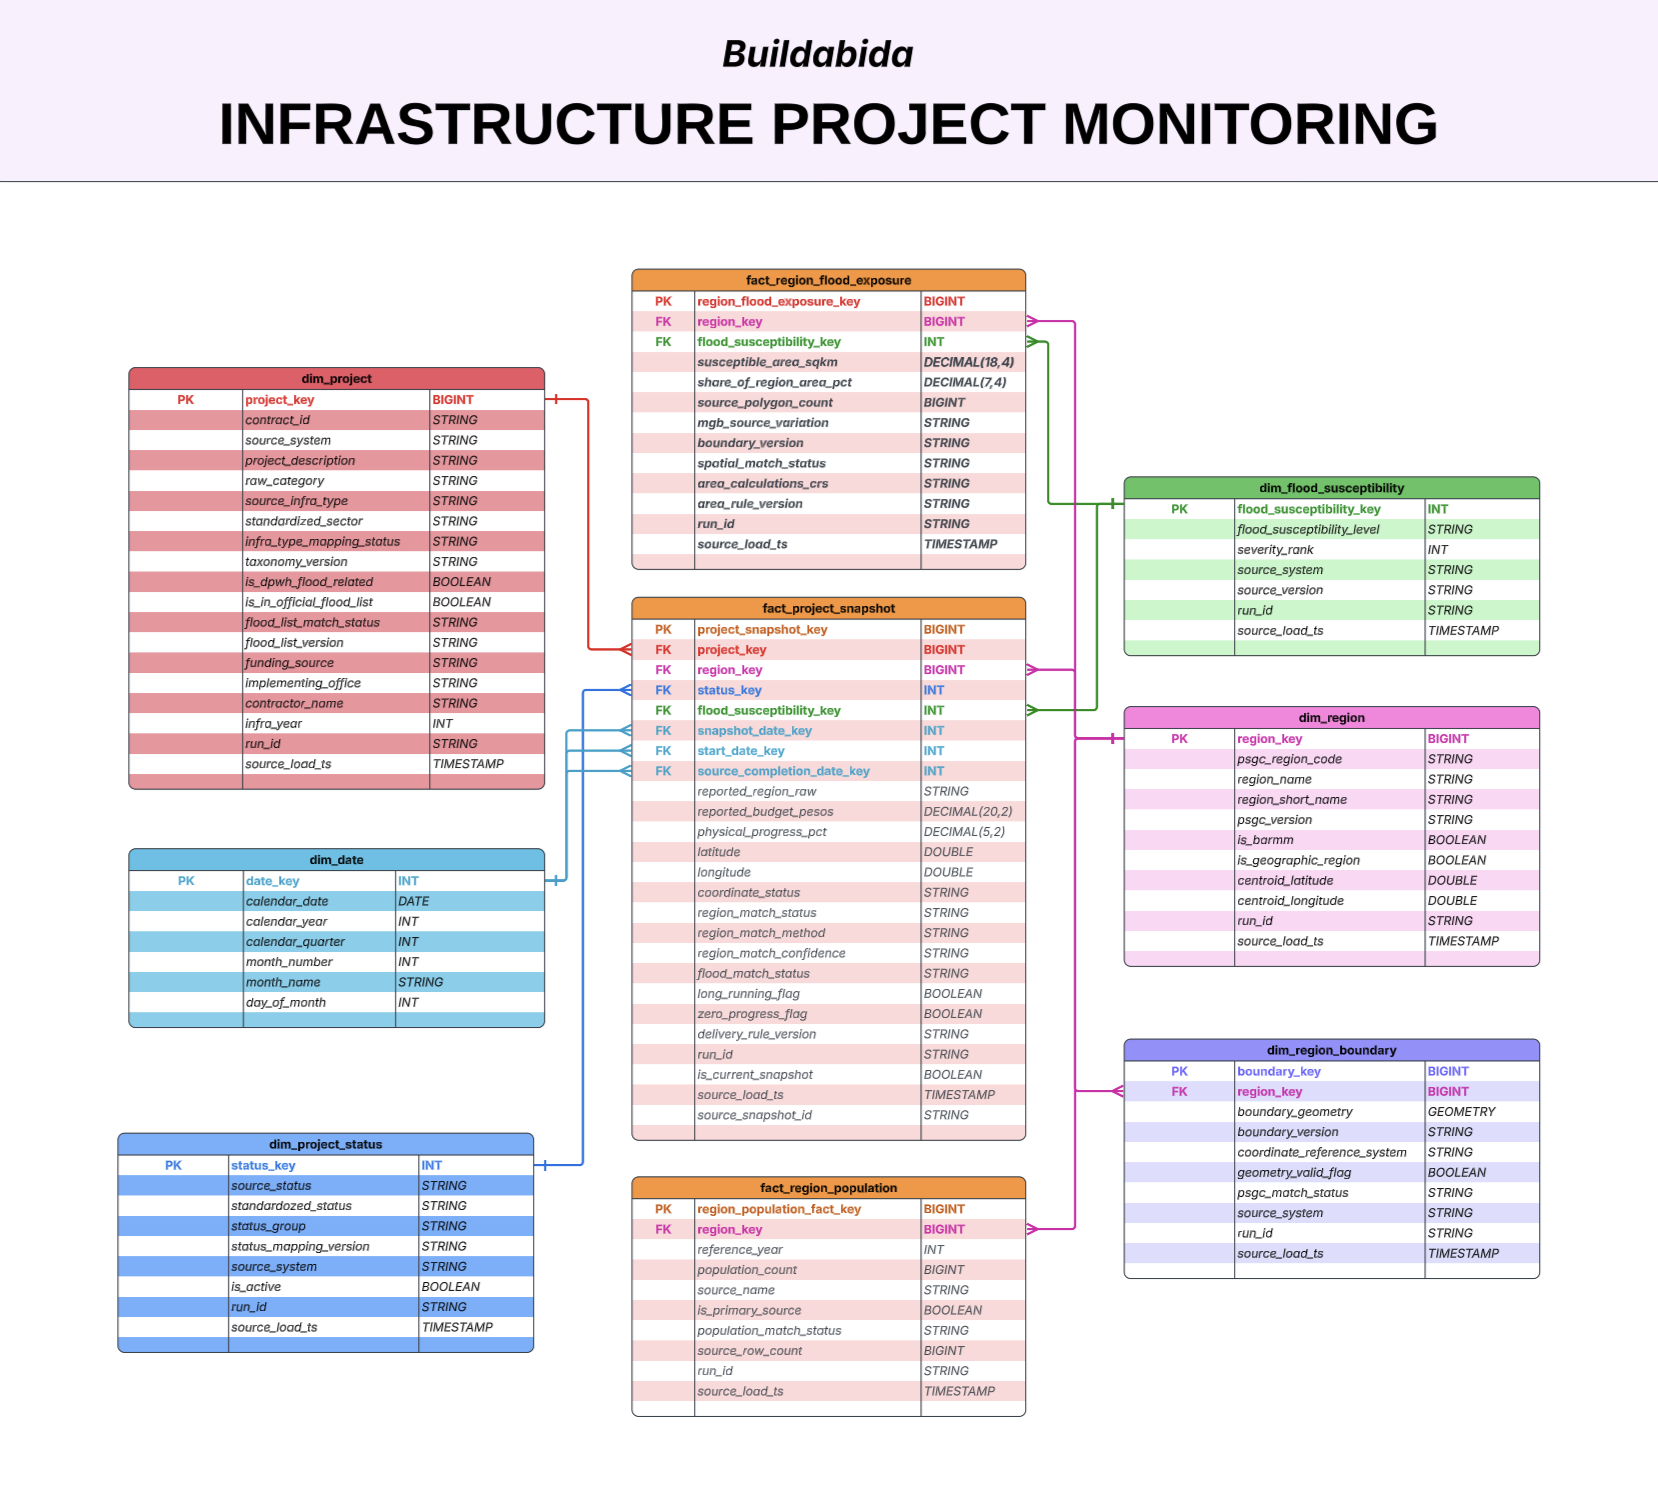
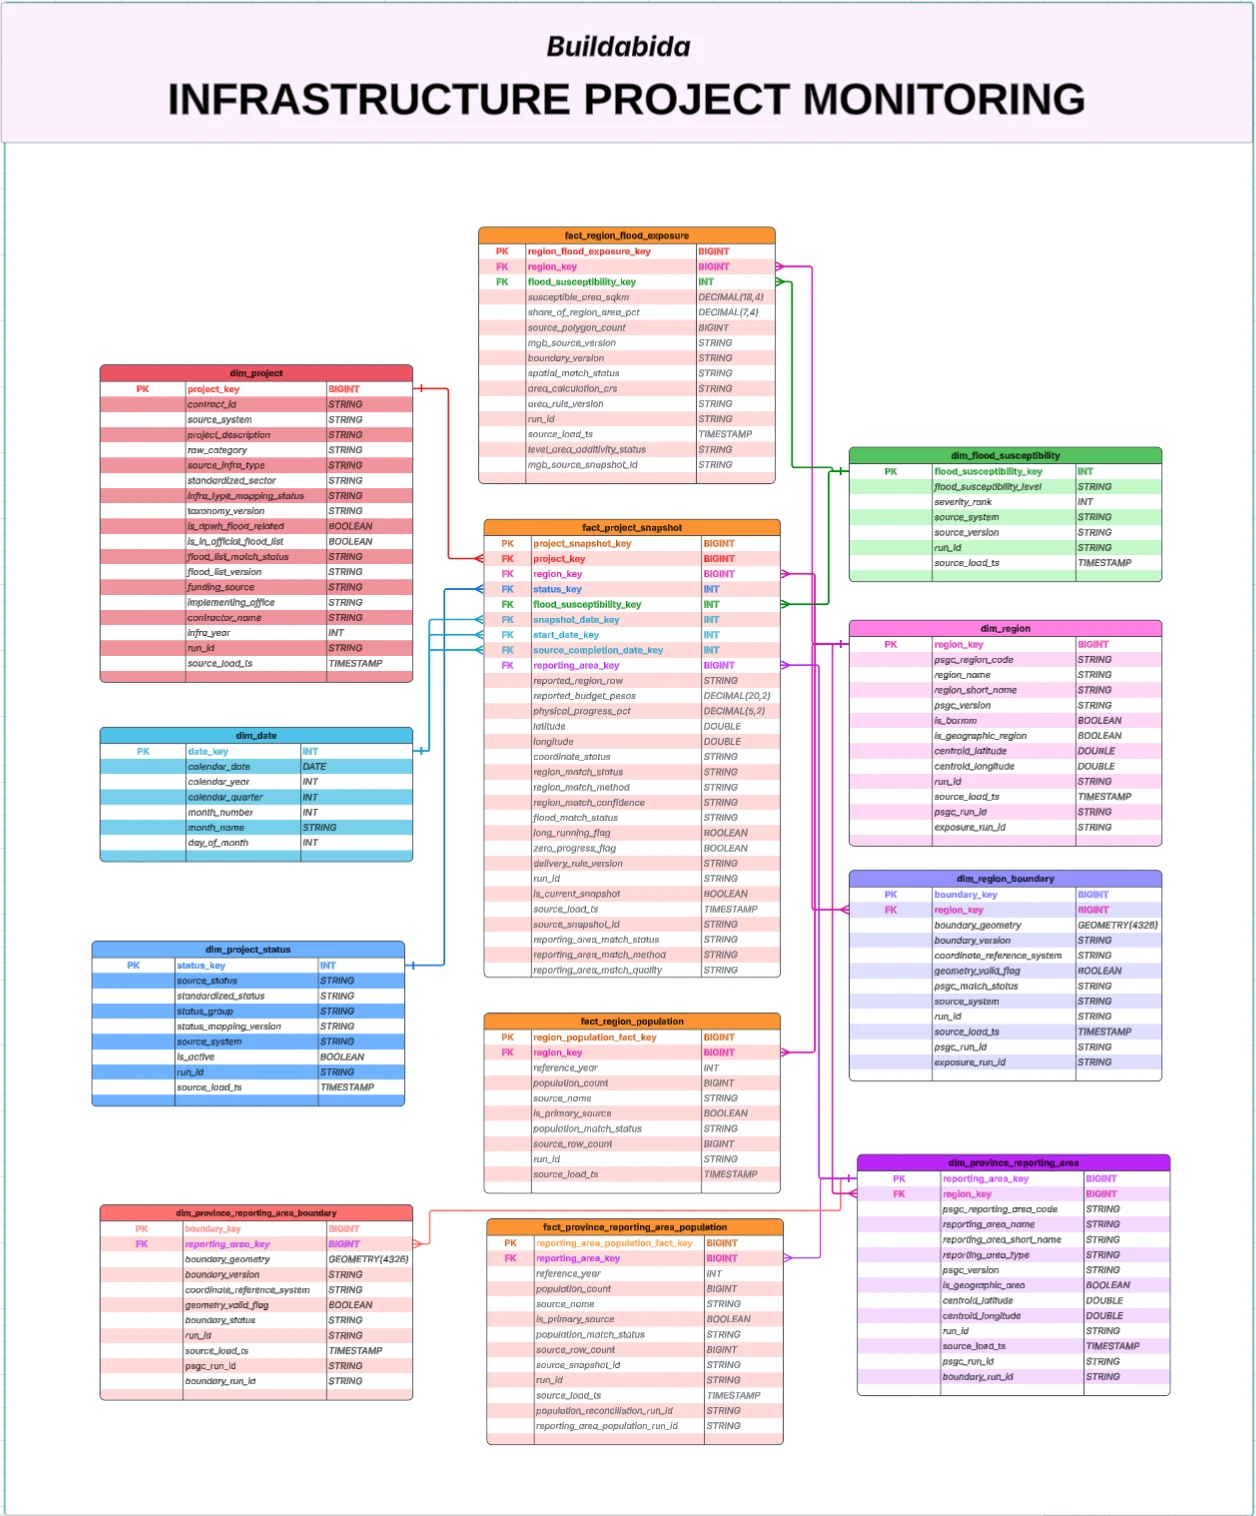
Update dashboard export and Gold constellation schema diagram
- Apply governance fixes to the October 21 dashboard export
- Add the Project Year filter to the dashboard spec
- Replace the constellation schema image with the province reporting-area version
- Show the diagram in README, data-model.md, and gold_model.md

diff --git a/README.md b/README.md
@@ -97,35 +97,7 @@ One [Databricks job](resources/README.md) runs it all as 50 tasks, in dependency
 
 ## Data model
 
-Gold has four fact tables connected through shared geography and flood dimensions. Project, status, and date dimensions support the project fact. Together, they form a fact constellation.
-
-### Gold constellation schema
-
-```mermaid
-flowchart TB
-    PROJECT["dim_project"] --> PROJECT_FACT["fact_project_snapshot"]
-    STATUS["dim_project_status"] --> PROJECT_FACT
-    DATE["dim_date<br/>snapshot, start, and completion roles"] --> PROJECT_FACT
-    FLOOD["dim_flood_susceptibility"] --> PROJECT_FACT
-    REGION["dim_region"] --> PROJECT_FACT
-    AREA["dim_province_reporting_area"] --> PROJECT_FACT
-
-    REGION --> REGION_POP["fact_region_population"]
-    REGION --> REGION_FLOOD["fact_region_flood_exposure"]
-    FLOOD --> REGION_FLOOD
-    AREA --> AREA_POP["fact_province_reporting_area_population"]
-
-    REGION --> AREA
-    REGION --> REGION_BOUNDARY["dim_region_boundary"]
-    AREA --> AREA_BOUNDARY["dim_province_reporting_area_boundary"]
-
-    classDef fact fill:#FFF2BF,stroke:#2B2A4C,color:#2B2A4C,stroke-width:2px
-    classDef dimension fill:#D7E8FF,stroke:#2B2A4C,color:#2B2A4C
-    class PROJECT_FACT,REGION_POP,REGION_FLOOD,AREA_POP fact
-    class PROJECT,STATUS,DATE,FLOOD,REGION,AREA,REGION_BOUNDARY,AREA_BOUNDARY dimension
-```
-
-Each arrow represents a one-to-many relationship from a dimension to a fact or another dimension. `dim_date` is role-playing and joins to the project fact through three date keys.
+Gold is a star schema with four facts that share dimensions. They share region, reporting area, flood level, and date, so they form a constellation.
 
 | Fact | One row per | Main measures |
 | --- | --- | --- |
@@ -136,11 +108,13 @@ Each arrow represents a one-to-many relationship from a dimension to a fact or a
 
 The dimensions are `dim_project`, `dim_project_status`, `dim_date` (used for three roles), `dim_region`, `dim_province_reporting_area`, `dim_flood_susceptibility`, and two boundary tables.
 
+![Gold constellation schema: four fact tables and eight dimensions, with their keys and relationships](docs/images/constellation-schema.png)
+
 - Keys are deterministic, so a rerun never changes them (D-33).
 - Key `0` holds Central Office, unmatched, and unresolved records, so nothing is dropped.
 - Every fact keeps `source_snapshot_id` and `run_id` (D-29).
 
-The full columns, keys, lineage, and relationship rules are in the [Gold model](docs/model/gold_model.md) and [data model](docs/model/data-model.md).
+The full columns, keys, and relationships are in the [Gold model](docs/model/gold_model.md). The [data model](docs/model/data-model.md) covers every layer.
 
 ## Quickstart
 
@@ -261,7 +235,7 @@ Team members are Kinah, Bri, Nadine, Sam, and Tricia. Carmi is the mentor, and S
 | --- | --- |
 | Oct 3 | Bronze ingestion and reviewed draft schema |
 | Oct 10 | Silver and Gold tables with validation |
-| Oct 17 | Dashboard and Databricks Associate exam. Genie was dropped ([#21](https://github.com/Buildabida/infra-project-monitoring/issues/21)) |
+| Oct 17 | Dashboard |
 | Oct 24 | Final Capstone Showcase and graduation |
 
 Tasks are tracked on the [project board](https://github.com/orgs/Buildabida/projects/1).

diff --git a/docs/model/data-model.md b/docs/model/data-model.md
@@ -252,6 +252,15 @@ boundary keeps `NULL` measures with `NO_SAFE_REGION_BOUNDARY`. Blank and
 See [Silver regional flood exposure](../silver/silver_region_flood_exposure.md) for the
 complete CRS, boundary, overlap, lineage, validation, and Gold handoff contracts.
 
+## Gold constellation schema
+
+Gold has four facts and eight dimensions. The facts share region, reporting
+area, flood level, and date, so they form a constellation. The
+[Gold model](gold_model.md#relationships) lists every column and relationship
+in the diagram.
+
+![Gold constellation schema: four fact tables and eight dimensions, with their keys and relationships](../images/constellation-schema.png)
+
 ## Gold fact tables (implemented)
 
 Three notebooks in `notebooks/03_gold` build these fact tables. The exact columns and types are in the [Gold model](gold_model.md).

diff --git a/docs/model/gold_model.md b/docs/model/gold_model.md
@@ -304,6 +304,8 @@ and deterministic Silver run. Population is the sum of reconciled Table C
 
 Every relationship is one-to-many, from a dimension to a fact or to another dimension.
 
+![Gold constellation schema: four fact tables and eight dimensions, with their keys and relationships](../images/constellation-schema.png)
+
 | Parent (one) | Child (many) | Join columns |
 | --- | --- | --- |
 | `dim_project.project_key` | `fact_project_snapshot` | `project_key` |
